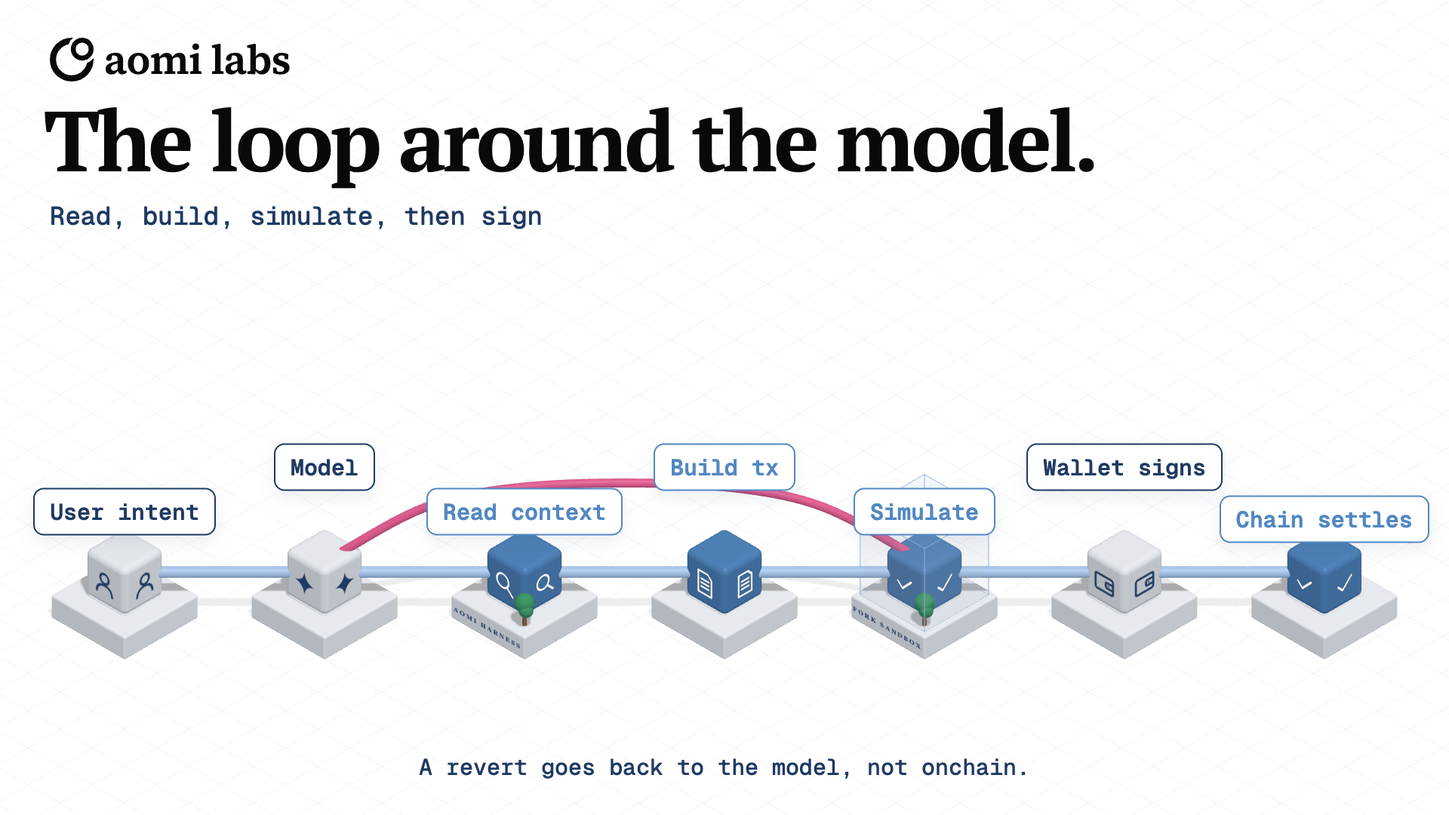
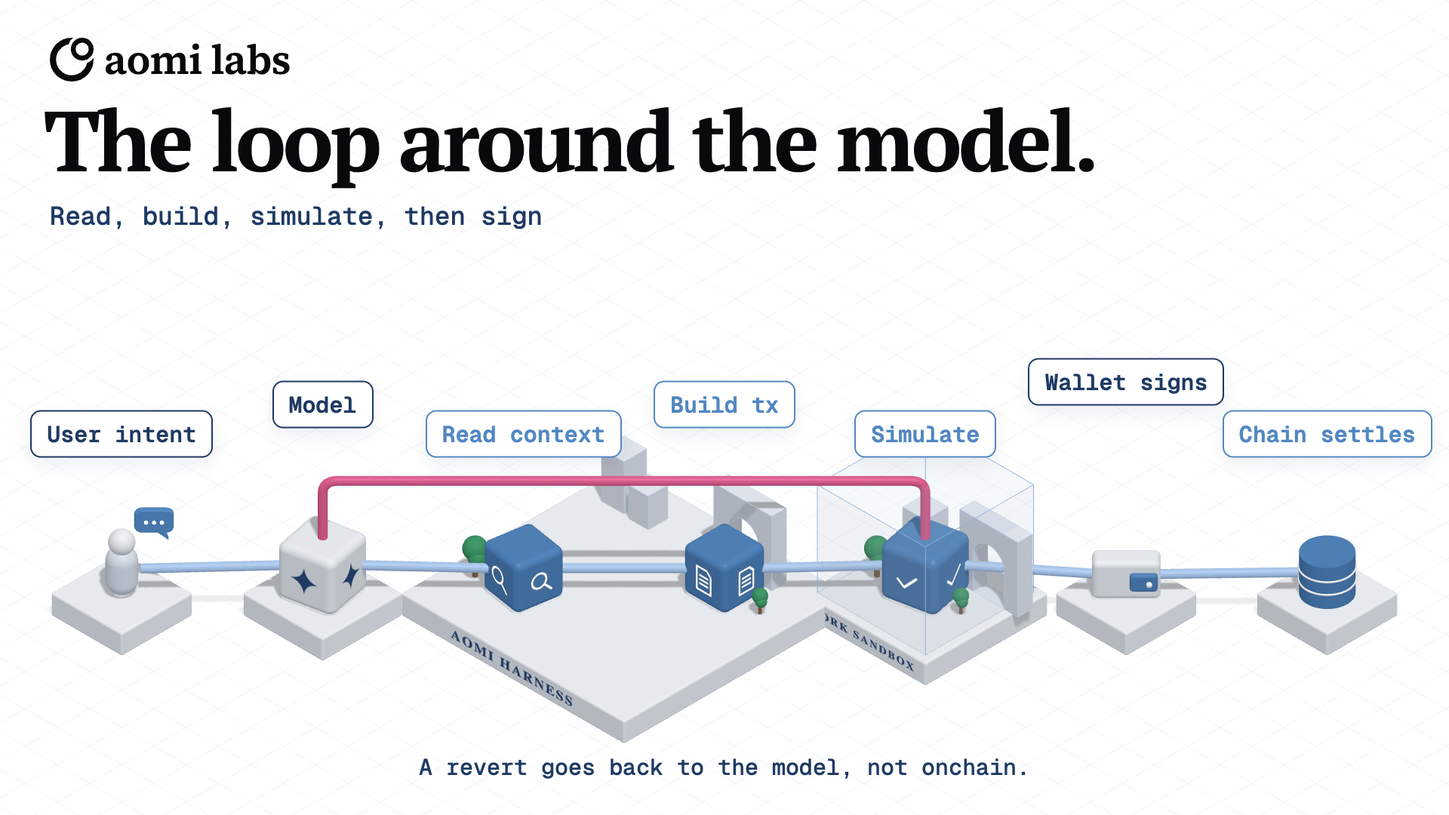
skills(iso-posts): people, bubbles and chain shapes; straight plumbing; dioramas and bonsai worlds
- Shapes beyond cubes: person (with a speech bubble for intent), bubble, wallet, block stack, db cylinder, receipt card; the converter guesses them from labels
- Wires: one per node pair, straight runs with rounded elbows, square self-loops
- Groups become dioramas with scenery and an optional glass case; tangled flows pack into one bonsai world
- Cubes vary in size by connections and tilt slightly; colliding labels move up, off the objects

diff --git a/skills/iso-posts/assets/iso-template.html b/skills/iso-posts/assets/iso-template.html
@@ -88,12 +88,52 @@ const ICONS = {
 };
 const iconCache = {};
 const iconTex = (name, ink) => iconCache[name + ink] ||= canvasTex(256, 256, g => { g.strokeStyle = g.fillStyle = ink; g.lineWidth = 18; g.lineCap = g.lineJoin = 'round'; ICONS[name](g); });
-function cube(p, { s = 1, c = C.sky, icon, ink = '#ffffff', y = 0 } = {}) { // a soft rounded cube with a line icon on its two visible faces
+function cube(p, { s = 1, c = C.sky, icon, ink = '#ffffff', y = 0, yaw = 0 } = {}) { // a soft rounded cube with a line icon on every side, so it can face any way
   const g = new THREE.Group(), m = new THREE.Mesh(new RoundedBoxGeometry(s, s, s, 5, s * .13), std(c, { roughness: .42 })); m.castShadow = m.receiveShadow = true; g.add(m);
-  if (icon) [[0, 0, s / 2 + .002, 0], [s / 2 + .002, 0, 0, Math.PI / 2], [0, s / 2 + .002, 0, null]].forEach(([x, yy, z, ry]) => {
-    const pl = new THREE.Mesh(new THREE.PlaneGeometry(s * .66, s * .66), new THREE.MeshBasicMaterial({ map: iconTex(icon, ink), transparent: true, depthWrite: false }));
-    pl.position.set(x, yy, z); if (ry === null) pl.rotation.x = -Math.PI / 2; else pl.rotation.y = ry; if (ry === null) return; g.add(pl); });
-  g.position.copy(p).add(new THREE.Vector3(0, s / 2 + y, 0)); scene.add(g); return g;
+  if (icon) [0, 1, 2, 3].forEach(q => { const pl = new THREE.Mesh(new THREE.PlaneGeometry(s * .66, s * .66), new THREE.MeshBasicMaterial({ map: iconTex(icon, ink), transparent: true, depthWrite: false }));
+    const a = q * Math.PI / 2; pl.position.set(Math.sin(a) * (s / 2 + .002), 0, Math.cos(a) * (s / 2 + .002)); pl.rotation.y = a; g.add(pl); });
+  g.rotation.y = yaw; g.position.copy(p).add(new THREE.Vector3(0, s / 2 + y, 0)); scene.add(g); return g;
+}
+// ---------- more than cubes: a person, a chat bubble, a wallet, a chain stack, a database, a paper card ----------
+const FACE = Math.PI / 4; // turns a front face toward the camera
+function person(p, { c = 0xe3ebf5, s = 1, say = false } = {}) { // a little rounded person; say: a chat bubble above them
+  const g = new THREE.Group(), body = new THREE.Mesh(new THREE.CapsuleGeometry(.36 * s, .5 * s, 10, 24), std(c, { roughness: .45 })); body.position.y = .62 * s; body.castShadow = true; g.add(body);
+  const head = new THREE.Mesh(new THREE.SphereGeometry(.3 * s, 32, 24), std(0xf7f9fc, { roughness: .45 })); head.position.y = 1.36 * s; head.castShadow = true; g.add(head);
+  if (say) { const b = bubble(V(0, 0, 0), { s: .62 * s }); b.position.set(.5 * s, 1.95 * s, -.5 * s); g.add(b); scene.remove(b); g.add(b); }
+  g.position.copy(p); scene.add(g); return g;
+}
+function bubble(p, { s = 1, c = C.sky } = {}) { // 💬 a rounded speech bubble with three typing dots, facing the camera
+  const w = 1.3 * s, h = .86 * s, r = .26 * s, sh = new THREE.Shape();
+  sh.moveTo(-w / 2 + r, -h / 2); sh.lineTo(w / 2 - .5 * s, -h / 2); sh.lineTo(w / 2 - .18 * s, -h / 2 - .3 * s); sh.lineTo(w / 2 - .3 * s, -h / 2); sh.lineTo(w / 2 - r, -h / 2);
+  sh.quadraticCurveTo(w / 2, -h / 2, w / 2, -h / 2 + r); sh.lineTo(w / 2, h / 2 - r); sh.quadraticCurveTo(w / 2, h / 2, w / 2 - r, h / 2);
+  sh.lineTo(-w / 2 + r, h / 2); sh.quadraticCurveTo(-w / 2, h / 2, -w / 2, h / 2 - r); sh.lineTo(-w / 2, -h / 2 + r); sh.quadraticCurveTo(-w / 2, -h / 2, -w / 2 + r, -h / 2);
+  const geo = new THREE.ExtrudeGeometry(sh, { depth: .16 * s, bevelEnabled: true, bevelThickness: .05 * s, bevelSize: .05 * s, bevelSegments: 4, curveSegments: 16 }); geo.translate(0, 0, -.08 * s);
+  const g = new THREE.Group(), m = new THREE.Mesh(geo, std(c, { roughness: .4, emissive: c, emissiveIntensity: .12 })); m.castShadow = true; g.add(m);
+  [-.28, 0, .28].forEach(x => { const d = new THREE.Mesh(new THREE.SphereGeometry(.075 * s, 16, 12), new THREE.MeshBasicMaterial({ color: 0xffffff })); d.position.set(x * s, 0, .16 * s); g.add(d); });
+  g.rotation.y = FACE; g.position.copy(p); scene.add(g); return g;
+}
+function wallet(p, { s = 1 } = {}) { // a soft wallet: body, flap and clasp
+  const g = new THREE.Group(), body = new THREE.Mesh(new RoundedBoxGeometry(1.5 * s, 1.0 * s, .6 * s, 4, .14 * s), std(0xf3f7fc, { roughness: .45 })); body.position.y = .5 * s; body.castShadow = true; g.add(body);
+  const flap = new THREE.Mesh(new RoundedBoxGeometry(.62 * s, .46 * s, .16 * s, 3, .08 * s), std(C.sky, { roughness: .4 })); flap.position.set(.38 * s, .52 * s, .34 * s); g.add(flap);
+  const clasp = new THREE.Mesh(new THREE.SphereGeometry(.07 * s, 16, 12), std(0xffffff)); clasp.position.set(.5 * s, .52 * s, .44 * s); g.add(clasp);
+  g.rotation.y = FACE; g.position.copy(p); scene.add(g); return g;
+}
+function stack(p, { c = C.sky, icon = 'eth', s = 1 } = {}) { // a short chain of blocks; the top one carries the chain's mark
+  const g = new THREE.Group();
+  [0, 1, 2].forEach(i => { const top = i === 2, b = new THREE.Mesh(new RoundedBoxGeometry(1.0 * s, .42 * s, 1.0 * s, 3, .07 * s), std(top ? c : 0xe4e9f1, { roughness: .5 })); b.position.y = (.21 + i * .52) * s; b.castShadow = true; g.add(b);
+    if (top && icon) [0, Math.PI / 2].forEach(a => { const pl = new THREE.Mesh(new THREE.PlaneGeometry(.62 * s, .62 * s), new THREE.MeshBasicMaterial({ map: iconTex(icon, '#ffffff'), transparent: true, depthWrite: false })); pl.position.set(Math.sin(a) * .502 * s, b.position.y, Math.cos(a) * .502 * s); pl.rotation.y = a; g.add(pl); });
+    if (i) { const l = new THREE.Mesh(new THREE.CylinderGeometry(.07 * s, .07 * s, .14 * s, 10), std(C.track)); l.position.y = (i * .52 - .05) * s; g.add(l); } });
+  g.position.copy(p); scene.add(g); return g;
+}
+function cylinder(p, { c = C.sky, s = 1 } = {}) { // a database
+  const g = new THREE.Group(), body = new THREE.Mesh(new THREE.CylinderGeometry(.62 * s, .62 * s, 1.1 * s, 40), std(c, { roughness: .42 })); body.position.y = .55 * s; body.castShadow = true; g.add(body);
+  [.38, .72].forEach(y => { const ring = new THREE.Mesh(new THREE.TorusGeometry(.625 * s, .025 * s, 8, 48), std(0xffffff)); ring.rotation.x = Math.PI / 2; ring.position.y = y * s; g.add(ring); });
+  g.position.copy(p); scene.add(g); return g;
+}
+const cardTex = canvasTex(256, 320, g => { g.fillStyle = '#ffffff'; g.fillRect(0, 0, 256, 320); g.fillStyle = '#7facd6'; [70, 110, 150, 190].forEach((y, i) => g.fillRect(36, y, [180, 150, 120, 80][i], 14)); g.fillStyle = '#2e9e6b'; g.beginPath(); g.arc(196, 256, 34, 0, 7); g.fill(); g.strokeStyle = '#fff'; g.lineWidth = 12; g.lineCap = 'round'; g.beginPath(); g.moveTo(180, 256); g.lineTo(192, 268); g.lineTo(214, 244); g.stroke(); });
+function card(p, { s = 1 } = {}) { // a standing paper card (a receipt)
+  const g = new THREE.Group(), m = new THREE.Mesh(new RoundedBoxGeometry(1.05 * s, 1.35 * s, .07 * s, 2, .03 * s), [std(0xffffff), std(0xffffff), std(0xffffff), std(0xffffff), new THREE.MeshStandardMaterial({ map: cardTex, roughness: .6 }), std(0xffffff)]);
+  m.position.y = .72 * s; m.castShadow = true; g.add(m); g.rotation.y = FACE; g.position.copy(p); scene.add(g); return g;
 }
 function slab(p, w, d, label, { h = .62, c = C.slab, ink = '#1f3a63', lw = w, lx = 0 } = {}) { // lw/lx: a shorter label, shifted along the edge // a platform with its label on the front edge
   const geo = new RoundedBoxGeometry(w, h, d, 3, .06), m = new THREE.Mesh(geo, std(c, { roughness: .6 })); m.receiveShadow = m.castShadow = true; m.add(edges(geo, C.edge, .9));
@@ -160,40 +200,94 @@ const POSTS = {
   },
 };
 // ---------- posts built from a spec (mermaid-to-spec.mjs → posts.js) ----------
-// A spec lays nodes on an iso grid: column r runs along world x, row k along world z. Subgraphs become
-// labelled platforms (glass: true adds a sandbox box), lone nodes get a small plinth, edges become pipes
-// (same row), arcs (skipping rows or looping back), rose arcs (fail) or dotted lines (dotted).
-// Optional per-node fields: s (cube size), tagY (raise its label), label: '' (no label). Spec: labels:false hides all node labels.
+// Columns run left → right across the banner, rows stack downward; shapes stay isometric.
+// A group (subgraph) becomes one bonsai diorama: a shared platform with its own trees, little buildings and an arch,
+// under one glass box when it's a sandbox. Lone nodes stand on their own plinths.
+// Wires are routed like plumbing: straight runs along the iso axes with rounded elbows, never free curves.
 const COL = { sky: C.sky, grn: C.grn, rose: C.rose, white: C.white }, TAGCLS = { sky: 'sky', grn: 'grn', rose: 'rose', white: '' };
+function roundedPath(pts, rad = .34) { // a polyline with rounded corners
+  const path = new THREE.CurvePath(); let prev = pts[0];
+  for (let i = 1; i < pts.length; i++) { const cur = pts[i], next = pts[i + 1]; if (!next) { path.add(new THREE.LineCurve3(prev, cur)); break; }
+    const d1 = cur.clone().sub(prev), d2 = next.clone().sub(cur), r = Math.min(rad, d1.length() / 2, d2.length() / 2);
+    const a = cur.clone().sub(d1.normalize().multiplyScalar(r)), b = cur.clone().add(d2.normalize().multiplyScalar(r));
+    path.add(new THREE.LineCurve3(prev, a)); path.add(new THREE.QuadraticBezierCurve3(a, cur, b)); prev = b; }
+  return path;
+}
+function wire(pts, { c = C.pipe, r = .11, dashed = false } = {}) {
+  pts = pts.filter((q, i) => i === 0 || q.distanceTo(pts[i - 1]) > 1e-3); if (pts.length < 2) return;
+  const path = roundedPath(pts, dashed ? .2 : .34);
+  if (dashed) { const l = new THREE.Line(new THREE.BufferGeometry().setFromPoints(path.getSpacedPoints(240)), new THREE.LineDashedMaterial({ color: c, dashSize: .2, gapSize: .15 })); l.computeLineDistances(); scene.add(l); return; }
+  const m = new THREE.Mesh(new THREE.TubeGeometry(path, 60 * pts.length, r, 14), std(c, { roughness: .35, emissive: c, emissiveIntensity: .12 })); m.castShadow = true; scene.add(m);
+}
 function build(spec) {
   copy(spec.headline, spec.sub, spec.foot);
-  // columns run left → right across the banner (world (1,0,−1)), rows stack downward (world (1,0,1)); cubes stay isometric.
-  // Every node stands on its own plinth; a group's label goes on its first member's plinth, and glass groups get a sandbox box per member.
-  const seq = spec.kind === 'sequence', GX = 4.4, GZ = 3.2, R2 = Math.SQRT1_2;
-  const at0 = n => V((n.r * GX + n.k * GZ) * R2, 0, (-n.r * GX + n.k * GZ) * R2), byId = Object.fromEntries(spec.nodes.map(n => [n.id, n]));
-  const groups = Object.fromEntries((spec.groups || []).map(g => [g.id, g])), labelled = new Set();
-  [...spec.nodes].sort((a, b) => a.r - b.r).forEach(n => {
-    const g = groups[n.group], first = g && !labelled.has(g.id), s = n.s || 1.25, w = Math.max(2.3, s + 1.0); if (first) labelled.add(g.id);
-    slab(at0(n), w, w, first ? (g.label || '').toUpperCase() : '', /sol(ana)?|svm/i.test(g?.label || '') ? { ink: '#23805a' } : {});
-    if (g?.glass) glass(off(at0(n), 0, S, 0), w - .3, s + 1.0, w - .3);
-    if (g && spec.trees !== false && first) tree(off(at0(n), w / 2 - .35, S, w / 2 - .35), .75);
+  const seq = spec.kind === 'sequence', GX = 4.4, GZ = 3.4, R2 = Math.SQRT1_2, DR = V(R2, 0, -R2), DK = V(R2, 0, R2);
+  const P = {}, grid0 = n => DR.clone().multiplyScalar(n.r * GX).add(DK.clone().multiplyScalar(n.k * GZ)), at0 = n => (P[n.id] || grid0(n)).clone(), byId = Object.fromEntries(spec.nodes.map(n => [n.id, n]));
+  const deg = {}; spec.edges.forEach(e => { deg[e.from] = (deg[e.from] || 0) + 1; deg[e.to] = (deg[e.to] || 0) + 1; });
+  const size = n => n.s || (n.shape === 'cube' || !n.shape ? 1.0 + .16 * Math.min(deg[n.id] || 0, 3) : 1); // busier cubes are bigger
+  // an intertwined flow (loop-backs, skipped columns, several rows) with no subgraphs becomes one little world on a shared diorama;
+  // people stay outside on their own plinth. `world: false` turns this off, `world: 'LABEL'` names it.
+  const tangled = spec.edges.filter(e => { const A = byId[e.from], B = byId[e.to]; return A && B && (e.back || A.k !== B.k || Math.abs(B.r - A.r) > 1); }).length >= 2;
+  if (spec.world !== false && !(spec.groups || []).length && !seq && (spec.world || tangled)) {
+    spec.groups = [{ id: '__world', label: typeof spec.world === 'string' ? spec.world : '' }];
+    const ms = spec.nodes.filter(n => n.shape !== 'person').sort((a, b) => a.r - b.r || a.k - b.k), cols = Math.ceil(Math.sqrt(ms.length)), base = grid0(ms[0]);
+    // pack the world into a small grid on the world axes: columns run along −z (up-right on screen), rows along +x
+    ms.forEach((n, i) => { n.group = '__world'; n.col = i % cols; n.row = Math.floor(i / cols); P[n.id] = base.clone().add(V(n.row * 4.4, 0, -n.col * 4.4)); });
+  }
+  const groups = Object.fromEntries((spec.groups || []).map(g => [g.id, { ...g, members: spec.nodes.filter(n => n.group === g.id) }]));
+  // platforms: one diorama per group, a plinth per lone node
+  Object.values(groups).filter(g => g.members.length).forEach(g => {
+    const ps = g.members.map(at0), xs = ps.map(q => q.x), zs = ps.map(q => q.z), pad = 1.9, side = Math.max(Math.max(...xs) - Math.min(...xs), Math.max(...zs) - Math.min(...zs)) + 2 * pad;
+    const c = V((Math.max(...xs) + Math.min(...xs)) / 2, 0, (Math.max(...zs) + Math.min(...zs)) / 2), back = c.clone().add(V(-side / 2 + 1.0, S, -side / 2 + 1.0));
+    slab(c, side, side, (g.label || '').toUpperCase(), /sol(ana)?|svm/i.test(g.label || '') ? { ink: '#23805a' } : {});
+    if (spec.trees !== false) { // the little world: buildings and an arch at the back, trees at the sides
+      block(back, .7, 1.4, .7); block(off(back, .85, 0, .1), .6, .9, .6); arch(off(back, side * .55, 0, -.1), 1.8, 2.0, .45);
+      tree(c.clone().add(V(-side / 2 + .7, S, side / 2 - 1.6)), .95); tree(c.clone().add(V(side / 2 - 1.6, S, -side / 2 + .7)), .85); tree(c.clone().add(V(side / 2 - .8, S, -side / 2 + 1.9)), .6);
+    }
+    if (g.glass) glass(off(c, 0, S, 0), side - .45, 2.9, side - .45);
   });
-  spec.nodes.forEach(n => { const s = n.s || 1.25; cube(off(at0(n), 0, S, 0), { s, c: COL[n.color] || C.sky, icon: n.icon, ink: n.color === 'white' ? '#1f3a63' : '#ffffff' });
-    if (spec.labels !== false && n.label) tag(off(at0(n), 0, S + s + 1.0 + (n.tagY ?? (n.r % 2) * 1.2), 0), n.label, TAGCLS[n.color] ?? 'sky'); });
-  const yc = S + .62;
-  spec.edges.forEach((e, i) => {
-    const A = byId[e.from], B = byId[e.to]; if (!A || !B) return; const a = at0(A), b = at0(B), fail = e.style === 'fail', c = fail ? C.rose : C.pipe;
-    if (seq && A === B) { tube([off(a, .2, yc + .5, .5), off(a, .9, yc + 1.4, .9), off(a, 0, yc + 1.9, 0), off(a, -.2, yc + .7, -.4)], { c, r: .08 }); if (spec.edgeLabels) tag(off(a, .8, yc + 2.6, .8), e.label, fail ? 'rose' : 'sky'); return; } // a message to itself: a small loop
-    if (seq) { const h = yc + 1.4 + i * .55, m = a.clone().lerp(b, .5);
-      if (e.style === 'dotted') { dotted(off(a, 0, h, 0), off(b, 0, h, 0), 0x7facd6); dotted(off(a, 0, yc, 0), off(a, 0, h, 0), 0x9db6d8); dotted(off(b, 0, yc, 0), off(b, 0, h, 0), 0x9db6d8); }
-      else tube([off(a, 0, yc + .5, 0), off(a, 0, h, 0), off(m, 0, h + .25, 0), off(b, 0, h, 0), off(b, 0, yc + .5, 0)], { c, r: .09 });
-      if (spec.edgeLabels) tag(off(m, 0, h + .7, 0), e.label, fail ? 'rose' : 'sky'); return; }
-    if (e.style === 'dotted') { dotted(off(a, 0, yc, 0), off(b, 0, yc, 0)); return; }
-    if (A.k === B.k && !e.back && !fail && Math.abs(A.r - B.r) === 1) { pipe(off(a, 0, yc, 0), off(b, 0, yc, 0), { c }); if (spec.edgeLabels && e.label) tag(off(a.clone().lerp(b, .5), 0, yc + .9, 0), e.label, 'sky'); return; }
-    const lift = e.back || fail ? 2.4 : 1.1, m = a.clone().lerp(b, .5);
-    tube([off(a, 0, yc + .3, 0), off(a.clone().lerp(b, .2), 0, yc + lift * .8, 0), off(m, 0, yc + lift, 0), off(a.clone().lerp(b, .8), 0, yc + lift * .8, 0), off(b, 0, yc + .3, 0)], { c, r: fail ? .1 : .12 });
-    if (spec.edgeLabels && e.label) tag(off(m, 0, yc + lift + .7, 0), e.label, fail ? 'rose' : 'sky');
+  spec.nodes.filter(n => !groups[n.group]).forEach(n => { const w = Math.max(2.2, size(n) + 1.0); slab(at0(n), w, w, ''); });
+  // nodes
+  const top = {}, mid = {}, half = {};
+  spec.nodes.forEach((n, i) => {
+    const p = off(at0(n), 0, S, 0), s = size(n), shape = n.shape || 'cube', col = COL[n.color] || C.sky;
+    if (shape === 'person') { person(p, { s, say: n.say, c: n.color === 'white' || !n.color ? 0xe3ebf5 : col }); top[n.id] = 1.7 * s; mid[n.id] = .65 * s; half[n.id] = .4 * s; }
+    else if (shape === 'bubble') { bubble(off(p, 0, .95 * s, 0), { s: 1.05 * s, c: col === C.white ? C.sky : col }); top[n.id] = 1.45 * s; mid[n.id] = .95 * s; half[n.id] = .5 * s; }
+    else if (shape === 'wallet') { wallet(p, { s }); top[n.id] = 1.0 * s; mid[n.id] = .5 * s; half[n.id] = .55 * s; }
+    else if (shape === 'stack') { stack(p, { s, c: col === C.white ? C.sky : col, icon: n.icon === 'sol' || n.color === 'grn' ? 'sol' : n.icon === 'eth' ? 'eth' : null }); top[n.id] = 1.5 * s; mid[n.id] = .73 * s; half[n.id] = .5 * s; }
+    else if (shape === 'db') { cylinder(p, { s, c: col === C.white ? C.sky : col }); top[n.id] = 1.1 * s; mid[n.id] = .55 * s; half[n.id] = .62 * s; }
+    else if (shape === 'card') { card(p, { s }); top[n.id] = 1.4 * s; mid[n.id] = .72 * s; half[n.id] = .3 * s; }
+    else { cube(p, { s, c: col, icon: n.icon, ink: n.color === 'white' ? '#1f3a63' : '#ffffff', yaw: [0, .2, -.16][i % 3] }); top[n.id] = s; mid[n.id] = s / 2; half[n.id] = s / 2 * Math.SQRT2 * .8; }
   });
+  // wires: one per pair of nodes (a reply or loop-back along the same pair shares the forward wire, rose if either is a failure).
+  // Neighbours in a row join face to face; a self-message is a square loop off the right face; everything else rises,
+  // runs along the axes at its own height and drops into the target. Every run is straight with rounded elbows.
+  const topMax = Math.max(...spec.nodes.map(n => top[n.id])), y0 = S + topMax, pairs = new Map();
+  spec.edges.forEach(e => { if (!byId[e.from] || !byId[e.to]) return; const key = [e.from, e.to].sort().join('\u0000'), had = pairs.get(key);
+    if (!had) pairs.set(key, { ...e }); else { if (e.style === 'fail') had.style = 'fail'; else if (had.style === 'dotted' && e.style !== 'dotted') Object.assign(had, { ...e, style: e.style }); had.label = had.label || e.label; } });
+  let lane = 0;
+  [...pairs.values()].forEach(e => {
+    const A = byId[e.from], B = byId[e.to], a = at0(A), b = at0(B), fail = e.style === 'fail', dashed = e.style === 'dotted', c = fail ? C.rose : dashed ? 0x7facd6 : C.pipe;
+    const up = (q, n, h) => off(q, 0, S + (h ?? top[n.id]), 0), side = (n, dir) => off(at0(n).add(DR.clone().multiplyScalar(dir * (half[n.id] + .02))), 0, S + mid[n.id], 0);
+    if (A === B) { const f = side(A, 1), o = f.clone().add(DR.clone().multiplyScalar(.9)), h = S + top[A.id] + .7;
+      wire([f, o, V(o.x, h, o.z), V(a.x, h, a.z), up(a, A)], { c, dashed }); return; }
+    const packed = P[A.id] && P[B.id], face = (n, ax, d) => off(at0(n).add(ax.clone().multiplyScalar(d * (half[n.id] + .02))), 0, S + mid[n.id], 0);
+    if (packed && Math.abs(A.row - B.row) + Math.abs(A.col - B.col) === 1 && !fail && !e.back) { // grid neighbours in the world
+      const ax = A.row === B.row ? V(0, 0, -1) : V(1, 0, 0), d = A.row === B.row ? Math.sign(B.col - A.col) : Math.sign(B.row - A.row);
+      wire([face(A, ax, d), face(B, ax, -d)], { c, dashed }); return; }
+    if (P[A.id] || P[B.id]) { const h = y0 + .5 + (lane++) * .3 + (fail || e.back ? .4 : 0); // anything touching the world: rise, run along x then z, drop
+      wire([up(a, A), V(a.x, h, a.z), V(b.x, h, a.z), V(b.x, h, b.z), up(b, B)], { c, dashed }); return; }
+    if (A.k === B.k && Math.abs(B.r - A.r) === 1) { const d = Math.sign(B.r - A.r); wire([side(A, d), side(B, -d)], { c, dashed });
+      if (spec.edgeLabels && e.label) tag(off(a.clone().lerp(b, .5), 0, S + mid[A.id] + .9, 0), e.label, fail ? 'rose' : 'sky'); return; }
+    const h = y0 + .9 + (lane++) * .55 + (fail || e.back ? .4 : 0), H = h - S, pts = [up(a, A), up(a, A, H)];
+    if (B.k !== A.k) pts.push(pts.at(-1).clone().add(DK.clone().multiplyScalar((B.k - A.k) * GZ)));
+    pts.push(up(b, B, H)); pts.push(up(b, B));
+    wire(pts, { c, dashed });
+    if (spec.edgeLabels && e.label) tag(off(a.clone().lerp(b, .5), 0, h + .7, 0), e.label, fail ? 'rose' : 'sky');
+  });
+  // labels ride above the highest wire, staggered by column
+  const yTag = y0 + .9 + lane * .55 + 1.1;
+  if (spec.labels !== false) spec.nodes.forEach(n => { if (n.label) tag(P[n.id] ? off(at0(n), 1.45, S + (n.tagY ?? 0), 1.45) : off(at0(n), 0, yTag + (n.tagY ?? (n.r % 2) * .8), 0), n.label, n.shape === 'person' ? '' : (TAGCLS[n.color] ?? 'sky')); });
   fit();
 }
 // zoom and pan the camera so the whole scene (and its tags) sits in the space below the headline
@@ -214,11 +308,11 @@ if (SPECS[N - 1]) build(SPECS[N - 1]); else POSTS[N]();
 renderer.render(scene, cam);
 const tmp = new THREE.Vector3();
 pins.forEach(([e, p]) => { tmp.copy(p).project(cam); e.style.left = ((tmp.x + 1) / 2 * W) + 'px'; e.style.top = ((1 - tmp.y) / 2 * H) + 'px'; });
-// nudge colliding tags apart: the later (lower) one moves down-right, a few passes until nothing overlaps
+// nudge colliding tags apart: the higher one moves up, so labels stay off the objects below them, a few passes until nothing overlaps
 for (let pass = 0; pass < 12; pass++) { let moved = false; const els = pins.map(([e]) => e);
   els.forEach((a, i) => els.slice(i + 1).forEach(b => { const A = a.getBoundingClientRect(), Bb = b.getBoundingClientRect();
-    if (A.left < Bb.right + 6 && Bb.left < A.right + 6 && A.top < Bb.bottom + 6 && Bb.top < A.bottom + 6) { const lo = A.top > Bb.top ? a : b, d = Math.min(A.bottom, Bb.bottom) - Math.max(A.top, Bb.top) + 10;
-      lo.style.top = (parseFloat(lo.style.top) + d) + 'px'; moved = true; } }));
+    if (A.left < Bb.right + 6 && Bb.left < A.right + 6 && A.top < Bb.bottom + 6 && Bb.top < A.bottom + 6) { const hi = A.top > Bb.top ? b : a, d = Math.min(A.bottom, Bb.bottom) - Math.max(A.top, Bb.top) + 10;
+      hi.style.top = (parseFloat(hi.style.top) - d) + 'px'; moved = true; } }));
   if (!moved) break; }
 window.__READY__ = true;
 </script>

diff --git a/skills/iso-posts/SKILL.md b/skills/iso-posts/SKILL.md
@@ -17,7 +17,7 @@ cp skills/iso-posts/assets/iso-template.html deliverables/posts/<slug>/posts.htm
 node skills/iso-posts/scripts/mermaid-to-spec.mjs diagram1.mmd [diagram2.mmd …] > deliverables/posts/<slug>/posts.js
 ```
 
-Each diagram becomes one post (`?n=1`, `?n=2`, …). The converter understands `flowchart`/`graph` (shapes, edge labels, `&`, subgraphs, `class`) and `sequenceDiagram` (participants, actors, messages). It lays nodes out left to right across the banner, each on its own plinth (rows stack downward, and chains of 8+ fold into a snake), and guesses each node's icon and colour from its words (wallet → wallet, sign or key → key, model or agent → sparkle, user → person, revert or fail → rose ✕, Solana → green, db or state → cylinder, …). A Mermaid diagram pasted into chat works too: save it to a `.mmd` file first.
+Each diagram becomes one post (`?n=1`, `?n=2`, …). The converter understands `flowchart`/`graph` (shapes, edge labels, `&`, subgraphs, `class`) and `sequenceDiagram` (participants, actors, messages). It lays nodes out left to right across the banner (rows stack downward, and chains of 8+ fold into a snake), and guesses each node's shape, icon and colour from its words. Not everything is a cube: a user is a little person, an intent or prompt is a speech bubble (a user with intent is a person with a bubble), a wallet is a wallet, a chain or network is a stack of blocks, a db or state store is a cylinder, and a receipt or proof is a card. Everything else is an icon cube (sign or key → key, model or agent → sparkle, revert or fail → rose ✕, Solana → green, …). A Mermaid diagram pasted into chat works too: save it to a `.mmd` file first.
 
 ## 2. Edit the spec
 
@@ -30,10 +30,10 @@ Open `posts.js`. The converter gives you a faithful translation, but a post need
   - Write these in the user's voice when you know it: plain and technical, not taglines.
 - **Cut to the point.** A feed image reads with 4–8 nodes. Drop plumbing nodes (logging, retries, config), merge chains that say one thing, and keep the node where the interesting thing happens. Delete their edges too.
 - **Shorten labels** to one to three words ("Simulate", "Wallet signs"). They render as pills, and long ones collide. Set `labels: false` when the cubes and icons already say enough.
-- **Check the guessed icon and colour** of each node. `icon` is one of `doc swap chart key shield bolt coins term x check spark search wallet dollar eth sol user db`; `color` is one of `sky grn rose white`. Use rose only for a failure path, and green only for Solana (or a clearly second chain).
-- **Groups:** a subgraph's name goes on its first member's plinth, and `glass: true` puts each member in a sandbox box (set automatically for fork, sandbox or simulation groups). Keep group labels to one short word ("AOMI", "FORK"); they sit on a plinth edge and shrink to fit.
-- **Emphasis:** make the node the post is about bigger with `s: 1.6`. The other cubes are 1.25.
-- **Edges:** `style` is `pipe`, `dotted` (async or replies) or `fail` (a rose arc). `back: true` marks a loop-back. `edgeLabels: true` on the spec shows edge labels; leave it off unless one label carries the point.
+- **Check the guessed shape, icon and colour** of each node. `shape` is one of `cube person bubble wallet stack db card`; `say: true` gives a person a speech bubble. `icon` is one of `doc swap chart key shield bolt coins term x check spark search wallet dollar eth sol user db`; `color` is one of `sky grn rose white`. Use rose only for a failure path, and green only for Solana (or a clearly second chain).
+- **Groups and worlds:** each subgraph becomes its own little diorama (a shared platform with buildings, an arch and trees) with its name on the front edge; `glass: true` covers it in a glass case (set automatically for fork, sandbox or simulation groups). Keep group labels short ("AOMI", "FORK"). A flow with no subgraphs that is intertwined (loop-backs, skipped columns, several rows) is packed into one compact bonsai world automatically, with people left outside on their own plinth and labels on the floor in front of each node. Set `world: false` to keep plinths, or `world: 'NAME'` to force and name it.
+- **Emphasis:** cubes grow with how connected they are (1.0 to about 1.5) and sit at slightly different angles. Make the node the post is about bigger with `s: 1.7`.
+- **Edges:** `style` is `pipe`, `dotted` (async or replies) or `fail` (rose). `back: true` marks a loop-back. Wires are clean plumbing: one wire per pair of nodes (a reply shares its request's wire), neighbours join face to face with a straight pipe, and anything else rises, runs straight along the axes at its own height with rounded elbows, and drops in. A self-message is a square loop. `edgeLabels: true` on the spec shows edge labels; leave it off unless one label carries the point.
 
 The full spec format, the kit and per-node overrides (`s`, `tagY`, positions) are in `references/kit.md`. Read it when the spec alone can't express the scene. For a one-off scene that isn't a diagram, write a hand-built function in the template's `POSTS` object instead (two worked examples are in the template).
 
@@ -57,6 +57,7 @@ Playwright: the script uses `playwright-core` from the project or next to the sc
 
 - **One idea per post.** A banner is read in a second; a diagram is studied. If the diagram has two ideas, make two posts.
 - **The headline is one line, no subtitle paragraph.** Two-line titles and wordy sublines were the first thing Cecilia cut.
+- **Wires are plumbing, not spaghetti.** Straight runs and right angles read as a system; curves and diagonals read as a mess. If a scene still looks tangled, cut edges before anything else.
 - **Nothing small.** On a phone an X image is about 600px wide, a third of the canvas, so labels under about 24px vanish. The template's sizes are already safe; don't shrink them to fit more in.
 - **Colour means something.** Sky is ours, EVM or passed; green is Solana; rose is a failure. A rose cube that isn't a failure confuses the story.
 - **The lockup reads "aomi labs"** (top-left, with the mark). Keep it.
@@ -65,7 +66,7 @@ Playwright: the script uses `playwright-core` from the project or next to the sc
 
 ## Files
 
-- `assets/iso-template.html`: the scene kit (iso camera, platforms, glass, icon cubes, pipes, tubes, trees, arches, coins, tags, receipts), the spec builder with auto-fit, and two hand-built example posts. It loads `posts.js` from its own folder.
+- `assets/iso-template.html`: the scene kit (iso camera, platforms, glass, icon cubes, people, speech bubbles, wallets, block stacks, cylinders, cards, orthogonal wires, trees, arches, coins, tags, receipts), the spec builder with auto-fit, and two hand-built example posts. It loads `posts.js` from its own folder.
 - `scripts/mermaid-to-spec.mjs`: Mermaid → spec (layout, icons, colours, edge styles).
 - `scripts/render.mjs`: PNG export and the layout check.
 - `references/kit.md`: spec fields, kit functions, coordinates, and recipes for common scenes.

diff --git a/skills/iso-posts/references/kit.md b/skills/iso-posts/references/kit.md
@@ -18,8 +18,9 @@
   kind: 'flow' | 'sequence',
   labels: true,          // false hides every node label
   edgeLabels: false,     // true shows edge (or message) labels
-  trees: true,           // false drops the decorative trees
-  nodes: [{ id, label, icon, color, r, k, group, s?, tagY? }],
+  trees: true,           // false drops the decorative scenery
+  world: undefined,      // false: never pack into one bonsai world; 'NAME': always, with that label
+  nodes: [{ id, label, shape, say?, icon, color, r, k, group, s?, tagY? }],
   edges: [{ from, to, label, style: 'pipe' | 'dotted' | 'fail', back? }],
   groups: [{ id, label, glass? }],               // flow only
 }
@@ -29,13 +30,16 @@
   - `r` is the column and `k` the row (fractions are fine).
   - `icon` is one of: `doc swap chart key shield bolt coins term x check spark search wallet dollar eth sol user db`.
   - `color` is one of `sky grn rose white`; white cubes get navy icons and suit actors (user, model, wallet).
-  - `s` is the cube size (default 1.25). `tagY` raises the label in world units.
-- **Edges between nodes:**
-  - Neighbours in the same row become a straight pipe.
-  - Anything else (a skipped column, a different row, `back`, `fail`) becomes an arc; `fail` arcs are rose and higher.
-  - `dotted` is a dashed line.
-- **Sequence specs** put each participant on its own plinth, left to right. Each message is an arc whose height grows with its order; replies (`-->>`) are dotted, and a message to itself is a small loop.
-- **Groups:** every node stands on its own plinth. A group's label goes on the front edge of its first member's plinth, and `glass` puts each member in a sandbox box.
+  - `shape` is one of `cube person bubble wallet stack db card` (default `cube`). `say: true` puts a speech bubble over a person. `icon` applies to cubes and to stacks (`eth`/`sol`).
+  - `s` is the size (cubes default to 1.0 + 0.16 per connection, up to 1.48). `tagY` raises the label in world units.
+- **Edges between nodes** (all straight runs with rounded elbows):
+  - Only one wire is drawn per pair of nodes; a reply or loop-back along the same pair shares it (rose if either is `fail`).
+  - Neighbours (adjacent columns in a row, or adjacent cells in a world) join face to face.
+  - Anything else rises from the top, runs along the axes at its own lane height and drops into the target; `fail`/`back` lanes sit a little higher.
+  - A message to itself is a square loop off the right face. `dotted` is a dashed line.
+- **Sequence specs** put each participant on its own plinth, left to right, wired the same way.
+- **Groups:** each group is one diorama with scenery and its label on the front edge; `glass` covers it in a glass case. Lone nodes stand on plinths.
+- **Worlds:** an intertwined flow without groups (two or more loop-backs, skips or row changes) is packed into a compact grid on one diorama; people stay outside, wires follow the world's axes, and labels sit on the floor in front of each node.
 - **Auto-fit:** after building, the camera zooms and pans so the whole scene and its tags fit below the headline (`fit()` in the template). You don't position anything by hand in spec mode.
 
 ## 2. Coordinates
@@ -50,7 +54,14 @@
 |---|---|
 | `slab(p, w, d, label, { h, ink, lw, lx })` | A platform with its label on the front edge. `lw`/`lx` give a shorter label shifted along the edge, useful when something covers the middle. Long labels shrink to fit. |
 | `glass(p, w, h, d)` | A translucent sandbox box with blue edges |
-| `cube(p, { s, c, icon, ink, y })` | A soft rounded cube with a line icon on its two visible faces |
+| `cube(p, { s, c, icon, ink, y, yaw })` | A soft rounded cube with a line icon on every side; `yaw` tilts it about the vertical |
+| `person(p, { s, c, say })` | A little person; `say` adds a speech bubble |
+| `bubble(p, { s, c })` | A speech bubble (an intent, prompt or message) |
+| `wallet(p, { s })` | A wallet |
+| `stack(p, { s, c, icon })` | Three stacked blocks (a chain); `icon` `eth`/`sol` on the top block |
+| `cylinder(p, { c, s })` | A database cylinder |
+| `card(p, { s })` | A standing receipt card |
+| `wire([points], { c, r, dashed })` | Orthogonal plumbing through the points with rounded elbows (use axis-aligned points) |
 | `pipe(a, b, { r, c })` | A straight pipe |
 | `tube([points], { r, c })` | A smooth curved pipe through the points (arcs, loops) |
 | `dotted(a, b, colour)` | A dashed line |
